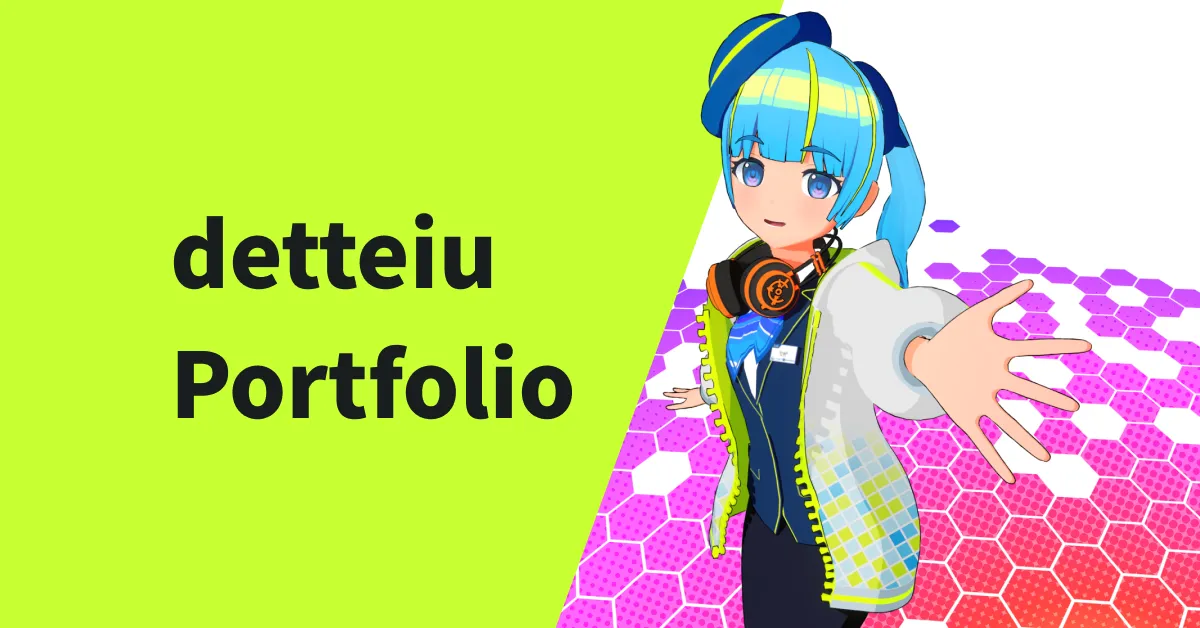
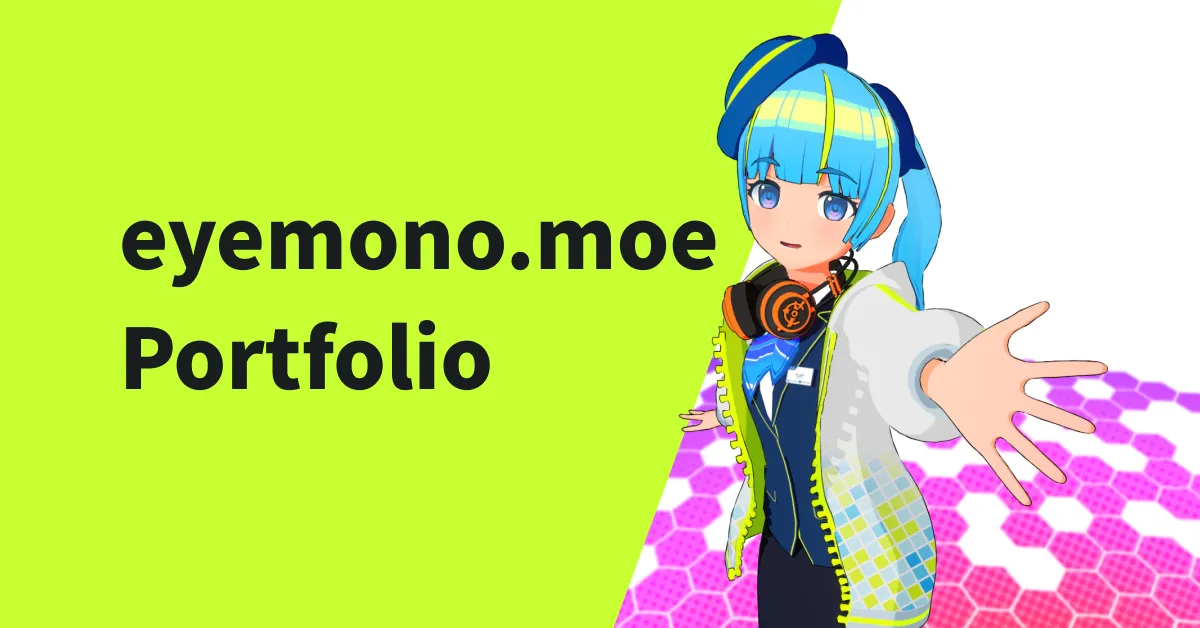
:fire: remove d_etteiu8383 / add eyemono.moe

diff --git a/src/consts.ts b/src/consts.ts
@@ -1,8 +1,8 @@
 import { lazy } from "solid-js";
 
-export const SITE_TITLE = "detteiu Portfolio";
+export const SITE_TITLE = "eyemono.moe Portfolio";
 export const SITE_DESCRIPTION =
-  "でっていう の ポートフォリオ | Web / 3DCG Developer";
+  "eyemono.moe の ポートフォリオ | Web / 3DCG Developer";
 export const SITE_URL = "https://www.eyemono.moe/";
 
 export const WORKS = [

diff --git a/src/components/Footer.tsx b/src/components/Footer.tsx
@@ -23,7 +23,7 @@ const FooterContainer = styled("footer", {
 const Footer: Component = () => {
   return (
     <FooterContainer>
-      <div>© 2023 d_etteiu8338</div>
+      <div>© 2023 eyemono.moe</div>
       <a
         href="https://github.com/detteiu8383/portfolio"
         target="_blank"

diff --git a/src/routes/index.tsx b/src/routes/index.tsx
@@ -87,7 +87,7 @@ export default function Top() {
       <Title>{SITE_TITLE}</Title>
       <MainContainer>
         <VerticalCenter>
-          <H1>d_etteiu Portfolio</H1>
+          <H1>eyemono.moe</H1>
           <TopNav>
             <TopNavUl>
               <TopNavLi>

diff --git a/src/md/icon-maker.md b/src/md/icon-maker.md
@@ -4,4 +4,4 @@
 
 ### Links
 
-- [でっていうメーカー](https://icon-maker.eyemono.moe/)
+- [eyemono.moe メーカー](https://icon-maker.eyemono.moe/)
